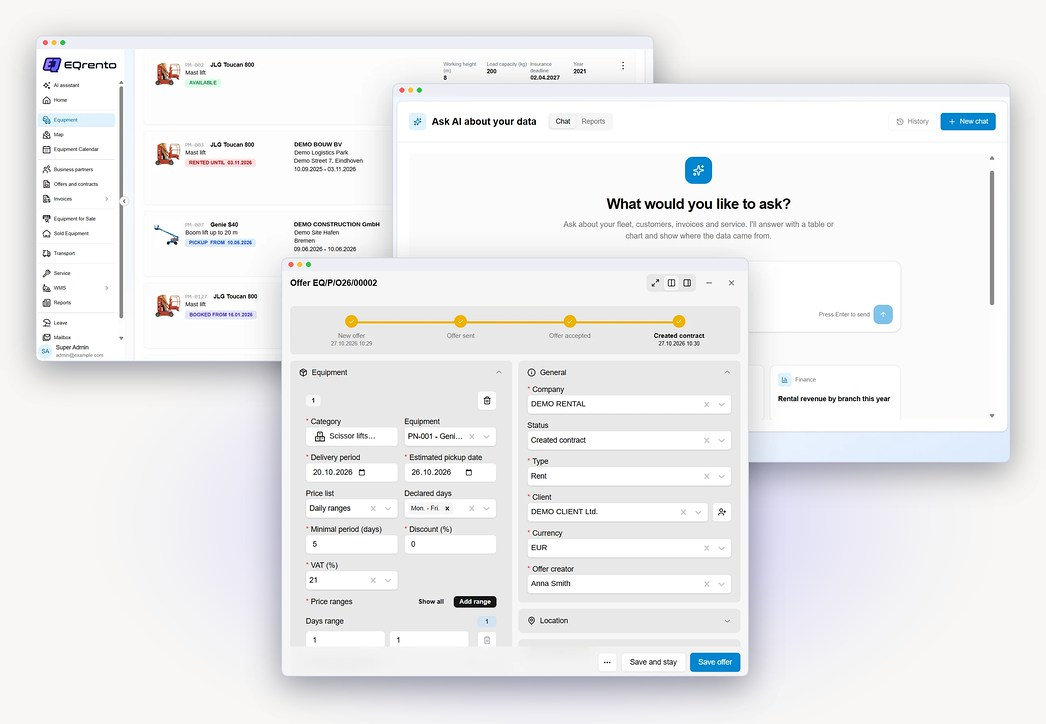
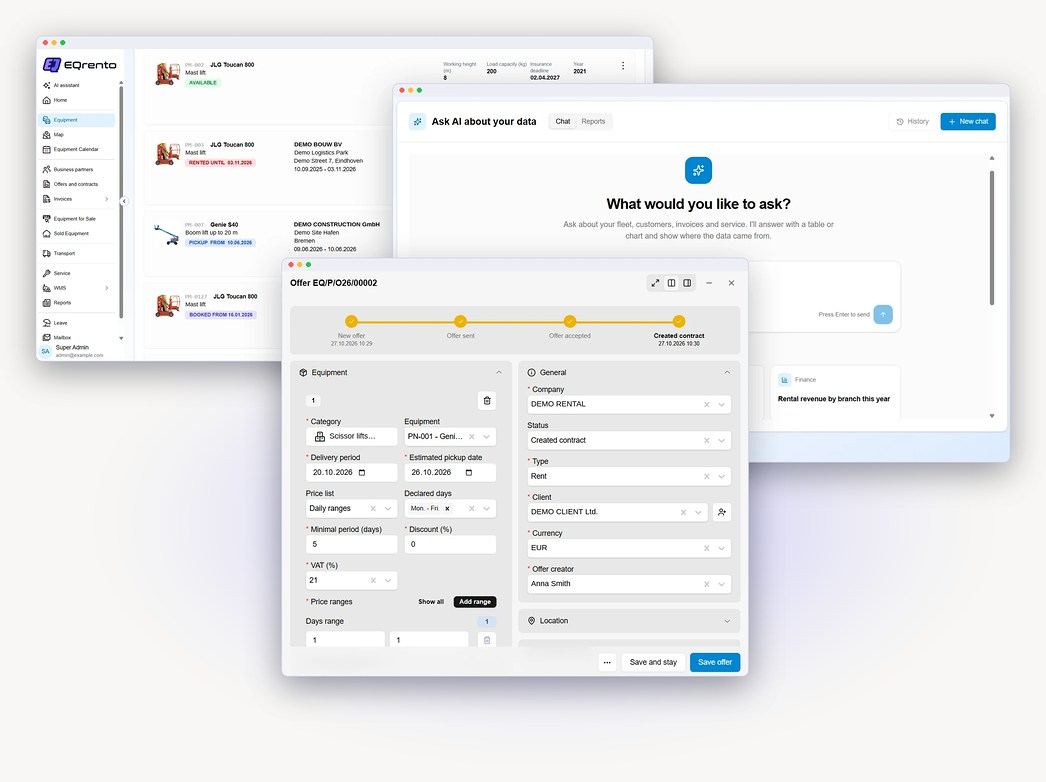
Hero: collage 10% larger on wide screens (machines same size and same gaps, stage recentred), shadow and glow now fade out at the bottom instead of a cut-off line (8% more canvas); Key features: the window's hairline no longer draws over the small photo (isolation)

diff --git a/index.html b/index.html
@@ -28,7 +28,7 @@
   <link rel="manifest" href="site.webmanifest">
   <script>document.documentElement.classList.add('js')</script>
   <link rel="preload" href="assets/fonts/sora-latin-wght-normal.woff2" as="font" type="font/woff2" crossorigin>
-  <link rel="stylesheet" href="assets/css/style.css?v=20261103p">
+  <link rel="stylesheet" href="assets/css/style.css?v=20261103q">
 </head>
 <body>
 
@@ -109,14 +109,14 @@
     <div class="hero__stage" aria-hidden="true">
       <div class="hero__screen" data-reveal="zoom" style="--d:350ms">
         <!-- three app windows (equipment, AI chat, offer), flattened onto the page colour (#f8f7f5) with the window
-             shadows and the violet glow baked in – remake them if the hero background changes. The widths are the exact
-             sizes the picture is shown at on common screens (CSS rounds it to whole device pixels), so the browser never
-             resizes it; "sizes" = the picture's width in each layout, .5px less so the exact width wins. No parallax
-             on it: a moving picture is drawn between pixels and looks soft -->
-        <img src="assets/img/screens/hero-837.jpg"
-             srcset="assets/img/screens/hero-521.jpg 521w, assets/img/screens/hero-556.jpg 556w, assets/img/screens/hero-587.jpg 587w, assets/img/screens/hero-626.jpg 626w, assets/img/screens/hero-641.jpg 641w, assets/img/screens/hero-670.jpg 670w, assets/img/screens/hero-698.jpg 698w, assets/img/screens/hero-700.jpg 700w, assets/img/screens/hero-732.jpg 732w, assets/img/screens/hero-782.jpg 782w, assets/img/screens/hero-837.jpg 837w, assets/img/screens/hero-880.jpg 880w, assets/img/screens/hero-1046.jpg 1046w, assets/img/screens/hero-1116.jpg 1116w, assets/img/screens/hero-1173.jpg 1173w, assets/img/screens/hero-1255.jpg 1255w, assets/img/screens/hero-1282.jpg 1282w, assets/img/screens/hero-1318.jpg 1318w, assets/img/screens/hero-1400.jpg 1400w, assets/img/screens/hero-1507.jpg 1507w, assets/img/screens/hero-1674.jpg 1674w"
-             sizes="(max-width: 640px) calc(107.32vw - 43.43px), (max-width: 1200px) min(calc(84.697vw - 54.71px), 699.65px), (max-width: 1440px) calc(40.736vw - .5px), min(calc(43.6vw - .5px), 836.5px)"
-             width="1674" height="1158" alt="" fetchpriority="high">
+             shadows and the violet glow baked in, and room under them so both fade out – remake them if the hero
+             background changes. The widths are the exact sizes the picture is shown at on common screens (CSS rounds
+             it to whole device pixels), so the browser never resizes it; "sizes" = the picture's width in each layout,
+             .5px less so the exact width wins. No parallax on it: a moving picture is drawn between pixels and looks soft -->
+        <img src="assets/img/screens/hero-921.jpg"
+             srcset="assets/img/screens/hero-574.jpg 574w, assets/img/screens/hero-612.jpg 612w, assets/img/screens/hero-645.jpg 645w, assets/img/screens/hero-688.jpg 688w, assets/img/screens/hero-700.jpg 700w, assets/img/screens/hero-705.jpg 705w, assets/img/screens/hero-737.jpg 737w, assets/img/screens/hero-767.jpg 767w, assets/img/screens/hero-806.jpg 806w, assets/img/screens/hero-860.jpg 860w, assets/img/screens/hero-921.jpg 921w, assets/img/screens/hero-968.jpg 968w, assets/img/screens/hero-1046.jpg 1046w, assets/img/screens/hero-1116.jpg 1116w, assets/img/screens/hero-1151.jpg 1151w, assets/img/screens/hero-1173.jpg 1173w, assets/img/screens/hero-1228.jpg 1228w, assets/img/screens/hero-1291.jpg 1291w, assets/img/screens/hero-1381.jpg 1381w, assets/img/screens/hero-1410.jpg 1410w, assets/img/screens/hero-1450.jpg 1450w, assets/img/screens/hero-1658.jpg 1658w, assets/img/screens/hero-1842.jpg 1842w"
+             sizes="(max-width: 640px) calc(107.32vw - 43.43px), (max-width: 1200px) min(calc(84.697vw - 54.71px), 699.65px), (max-width: 1440px) calc(44.813vw - .5px), min(calc(47.964vw - .5px), 920.26px)"
+             width="1842" height="1377" alt="" fetchpriority="high">
       </div>
       <div class="hero__forklift" data-reveal="left" style="--d:600ms">
         <img src="assets/img/hero-forklift.png" width="510" height="426" alt="" data-parallax="0.12">

diff --git a/assets/css/style.css b/assets/css/style.css
@@ -280,6 +280,15 @@ section[id] { scroll-margin-top: 80px; }
 /* the collage brings its own window shadows and glow. Its width is rounded to whole device pixels (--dpx = one device
    pixel, set by main.js), so the browser shows the picture of that exact width 1:1 instead of resizing it (sharper) */
 .hero__screen img { width: 100%; width: round(100%, var(--dpx, 1px)); max-width: none; }   /* may be a fraction of a pixel wider than its box */
+/* wide screens: the collage 10% larger (the machines keep their size), grown around the bottom middle of the offer
+   window; the machines move out with its edges, so both still stand 2.95% of the stage away from them. The picture
+   now reaches 3.9% of the stage higher, so the stage sits 1.95% lower to keep it centred beside the text */
+@media (min-width: 1201px) {
+  .hero__stage    { top: calc(50% - var(--sw) * .1592); }
+  .hero__screen   { left: 20.663%; top: -8.036%; width: 70.02%; }
+  .hero__forklift { left: 4.839%; }
+  .hero__lift     { left: 68.921%; }
+}
 
 /* =========================================================
    LOGOS
@@ -483,9 +492,10 @@ section[id] { scroll-margin-top: 80px; }
 /* ONE window frame for the product screenshots (Key features and the telematics map card; the screenshots are raw – no
    frame, no glow baked in): a light window like the ones in the hero collage – light title bar (--bar) with red /
    yellow / green dots, hairline edge – with the collage's shadow: a soft navy shadow all round that lifts the window
-   off the page, and a violet glow under it */
+   off the page, and a violet glow under it. isolation: the hairline and the dots stay inside the frame, so the small
+   photo that overlaps the Key features window covers them (no light line across the photo) */
 .features__screen, .gps__map {
-  position: relative; border-radius: 12px;
+  position: relative; isolation: isolate; border-radius: 12px;
   box-shadow:
     0 1px 3px rgba(7, 10, 27, .08),
     0 16px 48px -8px rgba(7, 10, 27, .26),

diff --git a/README.md b/README.md
@@ -78,11 +78,14 @@ Menu: Home, Why EQrento, How it works, Key features, Pricing, FAQ (header, mobil
   window like the ones in the hero collage – light title bar with red / yellow / green dots, hairline edge, a soft
   navy shadow all round and a violet glow under it.
 - **Hero picture** – a collage of three app windows (equipment list, “Ask AI about your data”, offer) between the
-  forklift and the scissor lift; on phones (≤ 640px) the whole collage fills the content width and the machines,
-  25% smaller, stand in its empty bottom corners. Source: the designer's `collage 2.webp` (2640×1827, transparent);
-  `../narzedzia/hero-kolaz.ps1` makes the window shadows 1.5× stronger, flattens it onto the hero colour `#f8f7f5`
-  with a violet glow baked in and saves sharp JPEGs in the exact widths the picture is shown at on common screens
-  (`assets/img/screens/hero-521.jpg` … `hero-1674.jpg`, 21 sizes; the script lists which screen needs which).
+  forklift and the scissor lift; on wide screens (> 1200px) it is 10% larger (70.02% of the stage – the machines
+  keep their size and move out with the offer window's edges); on phones (≤ 640px) the whole collage fills the
+  content width and the machines, 25% smaller, stand in its empty bottom corners. Source: the designer's
+  `collage 2.webp` (2640×1827, transparent); `../narzedzia/hero-kolaz.ps1` makes the window shadows 1.5× stronger,
+  flattens it onto the hero colour `#f8f7f5` with a violet glow baked in and adds 8% of canvas at the bottom so the
+  shadow and the glow fade out instead of stopping in a line. The result is kept as `../narzedzia/hero-flat.png`
+  (2640×1973); from it the script saves sharp JPEGs in the exact widths the picture is shown at on common screens
+  (`assets/img/screens/hero-574.jpg` … `hero-1842.jpg`, 23 sizes; the script lists which screen needs which).
   CSS rounds the picture to whole device pixels (`--dpx`, set by `main.js`), so the browser shows that file 1:1
   instead of resizing it (resizing, and the parallax moving it by fractions of a pixel, made it look soft – the
   collage has no parallax now). `sizes` in `index.html` is the picture's width in each layout minus .5px: change it
